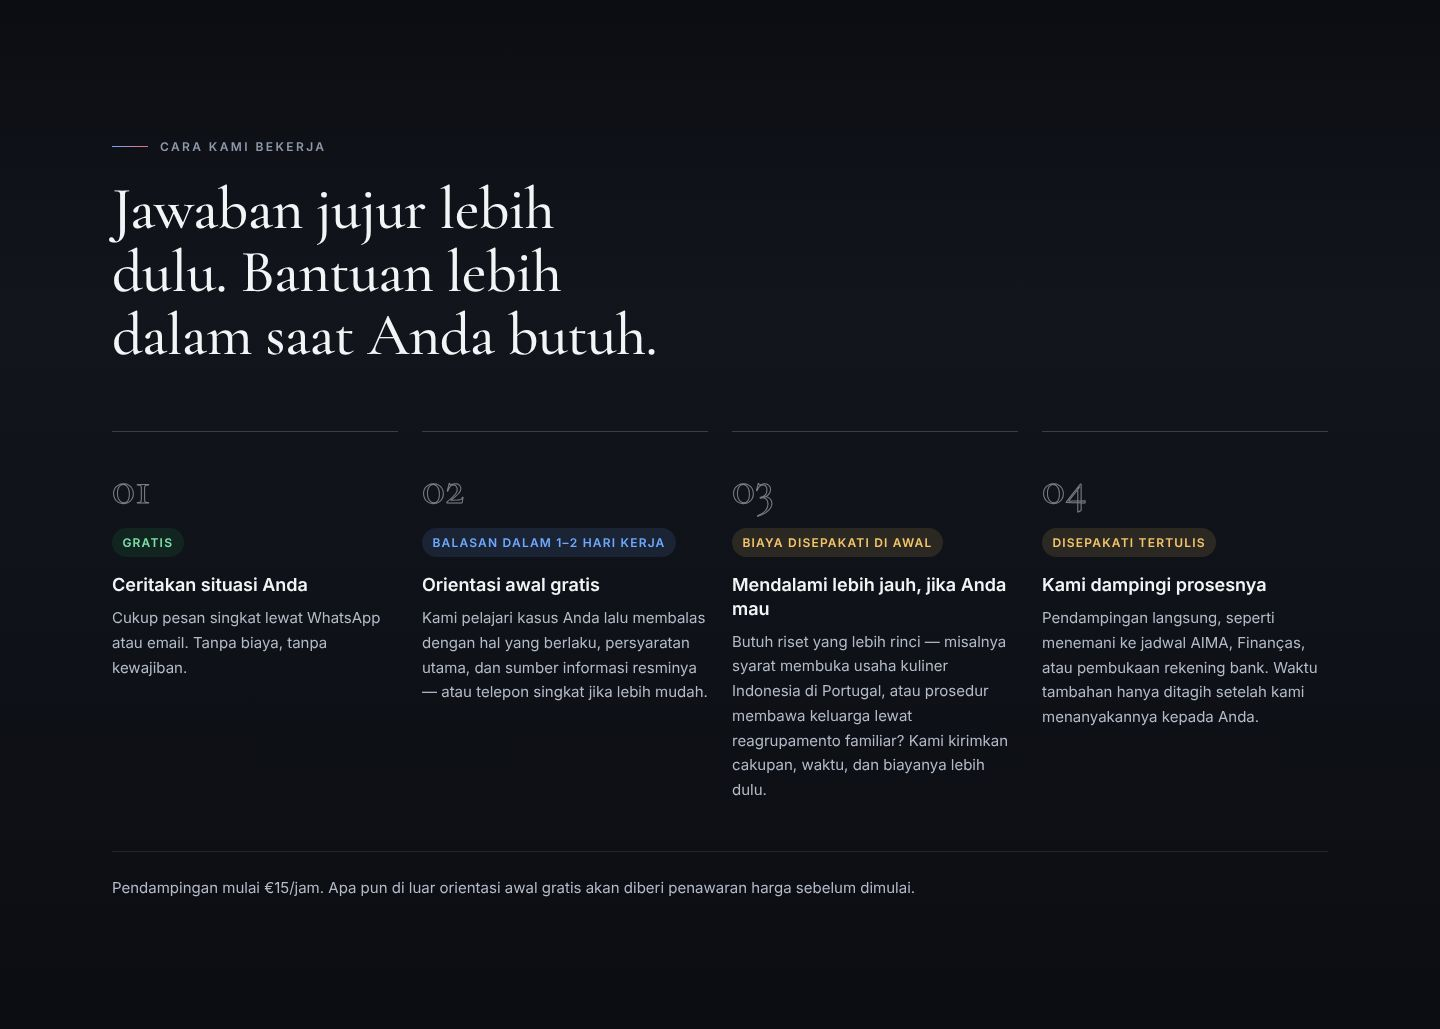
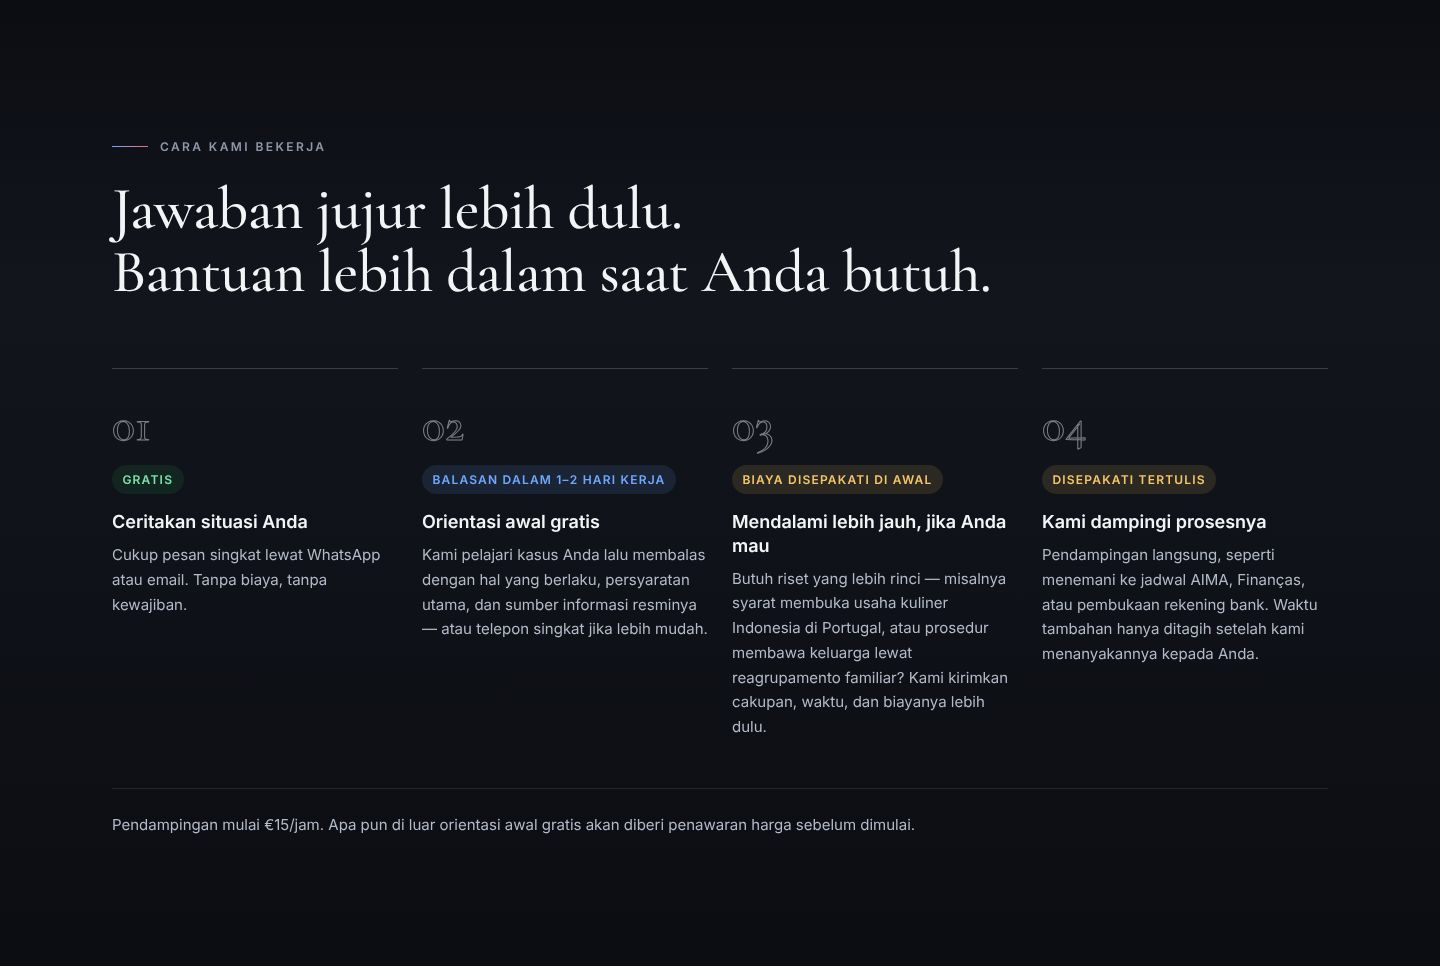
Redesign: controlled title line breaks and face-safe team cards
- Two-part section titles are stored as "part | part" in the i18n
  dictionaries and rendered as .t-line spans (one line each from 640px,
  balanced wrapping below). Finder, process and the new team title
  ("The people | behind the bridge.", PT/ID translated). Every line fits
  on one line at 1440, 1024 and 768px in EN/PT/ID; title container
  widened, finder title slightly smaller to fit its column.
- Team cards: 4:5 photo with the info panel below, overlapping only the
  bottom edge of the photo; per-person --face-y object position. No face
  is covered at 1440 or 390 with bios closed. New portrait crops replace
  the tall ones.
- Build screenshots regenerated, plus team in Indonesian

Claude-Session: https://claude.ai/code/session_01GaZV3jBAveDv1AdzxQHNLG

diff --git a/index.html b/index.html
@@ -92,7 +92,7 @@
         "name": "Aditya Putra",
         "jobTitle": "Business & Bilateral Relations Lead",
         "description": "Founder of LUSONUSA. Double master's degree: MBA (FEB UGM) and M.Sc. in International Management (ISCTE-IUL). Nine years in Portugal, including five in the Economic Section of the Embassy of the Republic of Indonesia in Lisbon.",
-        "image": "https://www.lusonusa.agency/assets/img/team-aditya-tall-800.jpg",
+        "image": "https://www.lusonusa.agency/assets/img/team-aditya-portrait-800.jpg",
         "alumniOf": [
           { "@type": "CollegeOrUniversity", "name": "Faculty of Economics and Business, Universitas Gadjah Mada (FEB UGM)" },
           { "@type": "CollegeOrUniversity", "name": "ISCTE – University Institute of Lisbon (ISCTE-IUL)" }
@@ -106,7 +106,7 @@
         "name": "Mia Gomes",
         "jobTitle": "Portuguese–Indonesian Translator & Interpreter",
         "description": "Native speaker of European Portuguese and Indonesian; translator and interpreter. Translations are certified before a Portuguese notary when an official version is needed.",
-        "image": "https://www.lusonusa.agency/assets/img/team-mia-tall-800.jpg",
+        "image": "https://www.lusonusa.agency/assets/img/team-mia-portrait-800.jpg",
         "knowsLanguage": ["pt", "id"],
         "memberOf": { "@id": "https://www.lusonusa.agency/#organization" }
       },
@@ -116,7 +116,7 @@
         "name": "Joko Supriyanto",
         "jobTitle": "Banking & Finance Specialist",
         "description": "7+ years residing in Portugal, Master of Science in Economics from ISEG Lisbon, active in the European banking sector.",
-        "image": "https://www.lusonusa.agency/assets/img/team-joko-tall-800.jpg",
+        "image": "https://www.lusonusa.agency/assets/img/team-joko-portrait-800.jpg",
         "alumniOf": { "@type": "CollegeOrUniversity", "name": "ISEG – Lisbon School of Economics & Management" },
         "knowsLanguage": ["en", "id"],
         "memberOf": { "@id": "https://www.lusonusa.agency/#organization" }
@@ -127,7 +127,7 @@
         "name": "Nabela Huwaida",
         "jobTitle": "Digital Transformation & Innovation",
         "description": "M.Sc. in Strategic Marketing, leading enterprise technology initiatives and business AI adoption.",
-        "image": "https://www.lusonusa.agency/assets/img/team-nabela-tall-800.jpg",
+        "image": "https://www.lusonusa.agency/assets/img/team-nabela-portrait-800.jpg",
         "knowsLanguage": ["en", "id"],
         "memberOf": { "@id": "https://www.lusonusa.agency/#organization" }
       }
@@ -267,7 +267,7 @@
         <div class="finder-intro">
           <div class="block-head">
             <p class="eyebrow"><span class="rule" aria-hidden="true"></span><span data-i18n="finder.eyebrow">Find your path</span></p>
-            <h2 id="finder-title" data-i18n="finder.title">Tell us where you’re headed. We’ll point the way.</h2>
+            <h2 id="finder-title" data-i18n="finder.title" data-i18n-lines><span class="t-line">Tell us where you’re headed.</span> <span class="t-line">We’ll point the way.</span></h2>
             <p data-i18n="finder.intro">Three quick taps turn your situation — say, checking a supplier in Jepara or getting your NIF in Lisbon — into a clear message for our team. No forms, no account.</p>
           </div>
           <ol class="promise">
@@ -331,7 +331,7 @@
       <div class="container">
         <div class="block-head">
           <p class="eyebrow"><span class="rule" aria-hidden="true"></span><span data-i18n="process.eyebrow">How we work</span></p>
-          <h2 id="process-title" data-i18n="process.title">Honest first answers. Deeper help when you need it.</h2>
+          <h2 id="process-title" data-i18n="process.title" data-i18n-lines><span class="t-line">Honest first answers.</span> <span class="t-line">Deeper help when you need it.</span></h2>
         </div>
         <ol class="steps">
           <li class="step">
@@ -368,15 +368,15 @@
       <div class="container">
         <div class="block-head">
           <p class="eyebrow"><span class="rule" aria-hidden="true"></span><span data-i18n="team.eyebrow">Our network</span></p>
-          <h2 id="team-title" data-i18n="team.title">Bilingual professionals, at home in both countries.</h2>
+          <h2 id="team-title" data-i18n="team.title" data-i18n-lines><span class="t-line">The people</span> <span class="t-line">behind the bridge.</span></h2>
           <p data-i18n="team.subtitle">A network of independent bilingual professionals embedded in both nations.</p>
         </div>
 
         <ul class="team">
-          <li class="person" id="person-aditya">
+          <li class="person" id="person-aditya" style="--face-y: 34%">
             <picture class="person-photo">
-              <source type="image/webp" srcset="assets/img/team-aditya-tall-480.webp 480w, assets/img/team-aditya-tall-800.webp 800w" sizes="(max-width: 560px) 92vw, (max-width: 860px) 46vw, 290px" />
-              <img src="assets/img/team-aditya-tall-480.jpg" srcset="assets/img/team-aditya-tall-480.jpg 480w, assets/img/team-aditya-tall-800.jpg 800w" sizes="(max-width: 560px) 92vw, (max-width: 860px) 46vw, 290px" width="480" height="672" alt="Portrait of Aditya Putra" loading="lazy" decoding="async" />
+              <source type="image/webp" srcset="assets/img/team-aditya-portrait-480.webp 480w, assets/img/team-aditya-portrait-800.webp 800w" sizes="(max-width: 560px) 92vw, (max-width: 1100px) 46vw, 290px" />
+              <img src="assets/img/team-aditya-portrait-480.jpg" srcset="assets/img/team-aditya-portrait-480.jpg 480w, assets/img/team-aditya-portrait-800.jpg 800w" sizes="(max-width: 560px) 92vw, (max-width: 1100px) 46vw, 290px" width="480" height="600" alt="Portrait of Aditya Putra" loading="lazy" decoding="async" />
             </picture>
             <div class="person-info">
               <span class="person-role" data-i18n="team.c1.role">Founder</span>
@@ -393,10 +393,10 @@
               <svg class="icon" aria-hidden="true"><use href="#i-plus"/></svg><span data-i18n="team.bio.btn">Bio</span><span class="sr-only">: Aditya Putra</span>
             </button>
           </li>
-          <li class="person" id="person-mia">
+          <li class="person" id="person-mia" style="--face-y: 30%">
             <picture class="person-photo">
-              <source type="image/webp" srcset="assets/img/team-mia-tall-480.webp 480w, assets/img/team-mia-tall-800.webp 800w" sizes="(max-width: 560px) 92vw, (max-width: 860px) 46vw, 290px" />
-              <img src="assets/img/team-mia-tall-480.jpg" srcset="assets/img/team-mia-tall-480.jpg 480w, assets/img/team-mia-tall-800.jpg 800w" sizes="(max-width: 560px) 92vw, (max-width: 860px) 46vw, 290px" width="480" height="672" alt="Portrait of Mia Gomes" loading="lazy" decoding="async" />
+              <source type="image/webp" srcset="assets/img/team-mia-portrait-480.webp 480w, assets/img/team-mia-portrait-800.webp 800w" sizes="(max-width: 560px) 92vw, (max-width: 1100px) 46vw, 290px" />
+              <img src="assets/img/team-mia-portrait-480.jpg" srcset="assets/img/team-mia-portrait-480.jpg 480w, assets/img/team-mia-portrait-800.jpg 800w" sizes="(max-width: 560px) 92vw, (max-width: 1100px) 46vw, 290px" width="480" height="600" alt="Portrait of Mia Gomes" loading="lazy" decoding="async" />
             </picture>
             <div class="person-info">
               <span class="person-role" data-i18n="team.c4.role">Translation Specialist</span>
@@ -413,10 +413,10 @@
               <svg class="icon" aria-hidden="true"><use href="#i-plus"/></svg><span data-i18n="team.bio.btn">Bio</span><span class="sr-only">: Mia Gomes</span>
             </button>
           </li>
-          <li class="person" id="person-joko">
+          <li class="person" id="person-joko" style="--face-y: 30%">
             <picture class="person-photo">
-              <source type="image/webp" srcset="assets/img/team-joko-tall-480.webp 480w, assets/img/team-joko-tall-800.webp 800w" sizes="(max-width: 560px) 92vw, (max-width: 860px) 46vw, 290px" />
-              <img src="assets/img/team-joko-tall-480.jpg" srcset="assets/img/team-joko-tall-480.jpg 480w, assets/img/team-joko-tall-800.jpg 800w" sizes="(max-width: 560px) 92vw, (max-width: 860px) 46vw, 290px" width="480" height="672" alt="Portrait of Joko Supriyanto" loading="lazy" decoding="async" />
+              <source type="image/webp" srcset="assets/img/team-joko-portrait-480.webp 480w, assets/img/team-joko-portrait-800.webp 800w" sizes="(max-width: 560px) 92vw, (max-width: 1100px) 46vw, 290px" />
+              <img src="assets/img/team-joko-portrait-480.jpg" srcset="assets/img/team-joko-portrait-480.jpg 480w, assets/img/team-joko-portrait-800.jpg 800w" sizes="(max-width: 560px) 92vw, (max-width: 1100px) 46vw, 290px" width="480" height="600" alt="Portrait of Joko Supriyanto" loading="lazy" decoding="async" />
             </picture>
             <div class="person-info">
               <span class="person-role" data-i18n="team.c2.role">Banking &amp; Finance</span>
@@ -433,10 +433,10 @@
               <svg class="icon" aria-hidden="true"><use href="#i-plus"/></svg><span data-i18n="team.bio.btn">Bio</span><span class="sr-only">: Joko Supriyanto</span>
             </button>
           </li>
-          <li class="person" id="person-nabela">
+          <li class="person" id="person-nabela" style="--face-y: 26%">
             <picture class="person-photo">
-              <source type="image/webp" srcset="assets/img/team-nabela-tall-480.webp 480w, assets/img/team-nabela-tall-800.webp 800w" sizes="(max-width: 560px) 92vw, (max-width: 860px) 46vw, 290px" />
-              <img src="assets/img/team-nabela-tall-480.jpg" srcset="assets/img/team-nabela-tall-480.jpg 480w, assets/img/team-nabela-tall-800.jpg 800w" sizes="(max-width: 560px) 92vw, (max-width: 860px) 46vw, 290px" width="480" height="672" alt="Portrait of Nabela Huwaida" loading="lazy" decoding="async" />
+              <source type="image/webp" srcset="assets/img/team-nabela-portrait-480.webp 480w, assets/img/team-nabela-portrait-800.webp 800w" sizes="(max-width: 560px) 92vw, (max-width: 1100px) 46vw, 290px" />
+              <img src="assets/img/team-nabela-portrait-480.jpg" srcset="assets/img/team-nabela-portrait-480.jpg 480w, assets/img/team-nabela-portrait-800.jpg 800w" sizes="(max-width: 560px) 92vw, (max-width: 1100px) 46vw, 290px" width="480" height="600" alt="Portrait of Nabela Huwaida" loading="lazy" decoding="async" />
             </picture>
             <div class="person-info">
               <span class="person-role" data-i18n="team.c3.role">Technology &amp; AI</span>

diff --git a/app.js b/app.js
@@ -643,7 +643,7 @@ const translations = {
     'dir.id.tags': 'NIF & NISS · AIMA · Banking · Certified translation · Business setup',
 
     'finder.eyebrow': 'Find your path',
-    'finder.title': 'Tell us where you’re headed. We’ll point the way.',
+    'finder.title': 'Tell us where you’re headed. | We’ll point the way.',
     'finder.intro': 'Three quick taps turn your situation — say, checking a supplier in Jepara or getting your NIF in Lisbon — into a clear message for our team. No forms, no account.',
     'promise.1.t': 'A real person replies',
     'promise.1.d': 'Within 1–2 working days, in English or Indonesian.',
@@ -671,7 +671,7 @@ const translations = {
     'msg.timing': 'Timing: {s}',
 
     'process.eyebrow': 'How we work',
-    'process.title': 'Honest first answers. Deeper help when you need it.',
+    'process.title': 'Honest first answers. | Deeper help when you need it.',
     'step.1.badge': 'Free',
     'step.1.title': 'Tell us your situation',
     'step.1.text': 'A short WhatsApp message or email is enough. No fees, no obligation.',
@@ -687,7 +687,7 @@ const translations = {
     'process.note': 'Accompaniment from €15/hour. Anything beyond the free first orientation is quoted before we start.',
 
     'team.eyebrow': 'Our network',
-    'team.title': 'Bilingual professionals, at home in both countries.',
+    'team.title': 'The people | behind the bridge.',
     'team.bio.btn': 'Bio',
     'team.c1.tag1': 'Double Master’s · UGM × ISCTE',
     'team.c1.tag2': '9+ yrs in Portugal',
@@ -788,7 +788,7 @@ const translations = {
     'dir.id.tags': 'NIF & NISS · AIMA · Banco · Tradução certificada · Criação de empresa',
 
     'finder.eyebrow': 'Encontre o seu caminho',
-    'finder.title': 'Diga-nos para onde vai. Nós indicamos o caminho.',
+    'finder.title': 'Diga-nos para onde vai. | Nós indicamos o caminho.',
     'finder.intro': 'Três toques transformam a sua situação — por exemplo, verificar um fornecedor em Jepara ou importar mobiliário de Java — numa mensagem clara para a nossa equipa. Sem formulários, sem conta.',
     'promise.1.t': 'Responde-lhe uma pessoa',
     'promise.1.d': 'Em 1–2 dias úteis, em inglês ou indonésio.',
@@ -816,7 +816,7 @@ const translations = {
     'msg.timing': 'Prazo: {s}',
 
     'process.eyebrow': 'Como trabalhamos',
-    'process.title': 'Primeiro, respostas honestas. Depois, ajuda mais profunda quando precisar.',
+    'process.title': 'Primeiro, respostas honestas. | Ajuda mais profunda quando precisar.',
     'step.1.badge': 'Grátis',
     'step.1.title': 'Conte-nos a sua situação',
     'step.1.text': 'Basta uma mensagem curta por WhatsApp ou email. Sem custos nem compromisso.',
@@ -832,7 +832,7 @@ const translations = {
     'process.note': 'Acompanhamento a partir de €15/hora. Tudo o que vá além da primeira orientação gratuita é orçamentado antes de começarmos.',
 
     'team.eyebrow': 'A nossa rede',
-    'team.title': 'Profissionais bilingues, em casa nos dois países.',
+    'team.title': 'As pessoas | por trás da ponte.',
     'team.bio.btn': 'Bio',
     'team.c1.tag1': 'Duplo Mestrado · UGM × ISCTE',
     'team.c1.tag2': '9+ anos em Portugal',
@@ -933,7 +933,7 @@ const translations = {
     'dir.id.tags': 'NIF & NISS · AIMA · Rekening bank · Terjemahan bersertifikat · Pendirian usaha',
 
     'finder.eyebrow': 'Temukan jalan Anda',
-    'finder.title': 'Ceritakan tujuan Anda. Kami tunjukkan jalannya.',
+    'finder.title': 'Ceritakan tujuan Anda. | Kami tunjukkan jalannya.',
     'finder.intro': 'Tiga ketukan mengubah situasi Anda — misalnya mengurus NIF atau membuka usaha kuliner di Portugal — menjadi pesan yang jelas untuk tim kami. Tanpa formulir, tanpa akun.',
     'promise.1.t': 'Dibalas langsung oleh orang, bukan bot',
     'promise.1.d': 'Dalam 1–2 hari kerja, dalam bahasa Inggris atau Indonesia.',
@@ -961,7 +961,7 @@ const translations = {
     'msg.timing': 'Waktu: {s}',
 
     'process.eyebrow': 'Cara kami bekerja',
-    'process.title': 'Jawaban jujur lebih dulu. Bantuan lebih dalam saat Anda butuh.',
+    'process.title': 'Jawaban jujur lebih dulu. | Bantuan lebih dalam saat Anda butuh.',
     'step.1.badge': 'Gratis',
     'step.1.title': 'Ceritakan situasi Anda',
     'step.1.text': 'Cukup pesan singkat lewat WhatsApp atau email. Tanpa biaya, tanpa kewajiban.',
@@ -977,7 +977,7 @@ const translations = {
     'process.note': 'Pendampingan mulai €15/jam. Apa pun di luar orientasi awal gratis akan diberi penawaran harga sebelum dimulai.',
 
     'team.eyebrow': 'Jaringan kami',
-    'team.title': 'Profesional bilingual yang akrab dengan kedua negara.',
+    'team.title': 'Orang-orang | di balik jembatan ini.',
     'team.bio.btn': 'Profil',
     'team.c1.tag1': 'Double Master · UGM × ISCTE',
     'team.c1.tag2': '9+ tahun di Portugal',
@@ -1000,6 +1000,19 @@ function initLanguageSystem() {
   setLanguage(SUPPORTED_LANGS.includes(stored) ? stored : 'en', false);
 }
 
+/* Two-part titles are stored as "first part | second part"; each part becomes
+   a .t-line span so the break always falls between them, in every language */
+function renderLines(el, value) {
+  el.textContent = '';
+  value.split('|').map(part => part.trim()).forEach((part, i) => {
+    if (i > 0) el.appendChild(document.createTextNode(' '));
+    const line = document.createElement('span');
+    line.className = 't-line';
+    line.textContent = part;
+    el.appendChild(line);
+  });
+}
+
 function setLanguage(lang, persist) {
   const dict = translations[lang];
   if (!dict) return;
@@ -1008,7 +1021,9 @@ function setLanguage(lang, persist) {
 
   document.querySelectorAll('[data-i18n]').forEach(el => {
     const value = dict[el.getAttribute('data-i18n')];
-    if (value !== undefined) el.textContent = value;
+    if (value === undefined) return;
+    if (el.hasAttribute('data-i18n-lines')) renderLines(el, value);
+    else el.textContent = value;
   });
 
   document.querySelectorAll('[data-i18n-aria]').forEach(el => {

diff --git a/style.css b/style.css
@@ -484,13 +484,19 @@ section[id], footer[id] { scroll-margin-top: var(--header-h); }
    ═══════════════════════════════════════════════════════════════ */
 .block { padding: var(--s-8) 0; }
 .block-tint { background: linear-gradient(180deg, var(--bg), var(--surface) 30%, var(--bg)); }
-.block-head { max-width: 46rem; }
+.block-head { max-width: 64rem; }
 .block-head h2 {
   margin-top: var(--s-3);
   font: 500 var(--t-h2)/1.05 var(--f-display);
   letter-spacing: -0.01em;
   text-wrap: balance;
 }
+/* Two-part titles: one line per part from 640px up; free (balanced) wrap below */
+.t-line { display: inline; }
+@media (min-width: 640px) {
+  .t-line { display: block; }
+}
+.finder .block-head h2 { font-size: clamp(2.25rem, 1.6rem + 1.6vw, 3.25rem); }
 .block-head p:not(.eyebrow) {
   max-width: 34em;
   margin-top: var(--s-3);
@@ -680,7 +686,8 @@ section[id], footer[id] { scroll-margin-top: var(--header-h); }
 
 
 /* ═══════════════════════════════════════════════════════════════
-   TEAM — tall B&W portraits; bios on hover, focus or tap
+   TEAM — B&W portraits; the info panel overlaps only the bottom edge
+   of the photo so faces stay clear. Bios on hover, focus or tap.
    ═══════════════════════════════════════════════════════════════ */
 .team {
   display: grid;
@@ -690,38 +697,44 @@ section[id], footer[id] { scroll-margin-top: var(--header-h); }
 }
 .person {
   position: relative;
+  display: flex;
+  flex-direction: column;
   overflow: hidden;
-  aspect-ratio: 4 / 5.6;
+  border: 1px solid var(--line);
   border-radius: var(--radius);
   background: var(--surface);
 }
-.person-photo,
-.person-photo img {
-  position: absolute;
-  inset: 0;
-  width: 100%;
-  height: 100%;
+.person-photo {
+  position: relative;
+  display: block;
+  aspect-ratio: 4 / 5;
+  overflow: hidden;
 }
 .person-photo img {
+  width: 100%;
+  height: 100%;
   object-fit: cover;
-  object-position: center top;
+  object-position: center var(--face-y, 30%);
   filter: grayscale(1) contrast(1.05);
   transition: transform 0.8s var(--ease);
 }
-.person::after {
+/* Fade from photo into the panel: only the bottom ~18% of the photo darkens */
+.person-photo::after {
   content: '';
   position: absolute;
-  inset: 0;
-  background: linear-gradient(180deg, transparent 34%, rgba(11, 13, 18, 0.62) 56%, rgba(11, 13, 18, 0.97) 82%);
+  inset: auto 0 0;
+  height: 30%;
+  background: linear-gradient(180deg, transparent, rgba(18, 21, 28, 0.85) 60%, var(--surface));
   pointer-events: none;
 }
 .person-info {
-  position: absolute;
-  inset: auto 0 0;
+  position: relative;
   z-index: 1;
+  flex: 1;
   display: flex;
   flex-direction: column;
-  padding: 1.25rem;
+  margin-top: -2.75rem;
+  padding: 0 1.25rem 1.25rem;
   transition: opacity 0.35s;
 }
 .person-role {
@@ -976,7 +989,6 @@ section[id], footer[id] { scroll-margin-top: var(--header-h); }
 @media (max-width: 560px) {
   .steps { grid-template-columns: 1fr; }
   .team { grid-template-columns: 1fr; }
-  .person { aspect-ratio: 4 / 5; }
   .dir-arrow { display: none; }
   .dir { grid-template-columns: 1fr; }
   .chat-body, .chat-head { padding-left: 1rem; padding-right: 1rem; }
